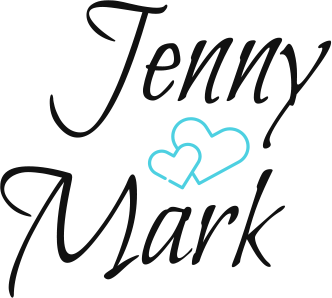
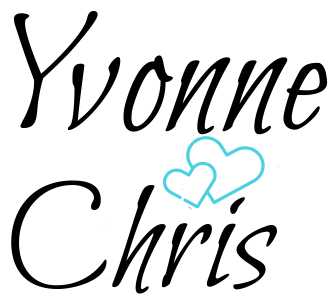
changed ps names

Changed region(s): [[0.0, 0.0, 1.0, 1.0], [0.2711, 0.7248, 0.3313, 0.8154], [0.8133, 0.6946, 0.8735, 0.7248]]

diff --git a/src/App.js b/src/App.js
@@ -1172,7 +1172,7 @@ class App extends Component {
                 </div>
               </div>
               <div class="wd_footer_bottom_wrapper wd_toppadder50 wd_bottompadder50">
-                <a href="javascript:void(0);" id="scroll" title="Scroll to Top" style="display: none;"><i class="fa fa-long-arrow-up" aria-hidden="true"></i></a>
+            <a href="javascript:void(0);" id="scroll" title="Scroll to Top" style={{ display: "none" }}><i class="fa fa-long-arrow-up" aria-hidden="true"></i></a>
                 <div class="col-md-12">
                   <div class="wd_footer_section">
                     <img src="images/header/flogo.png" alt="Logo" class="img-responsive" />
